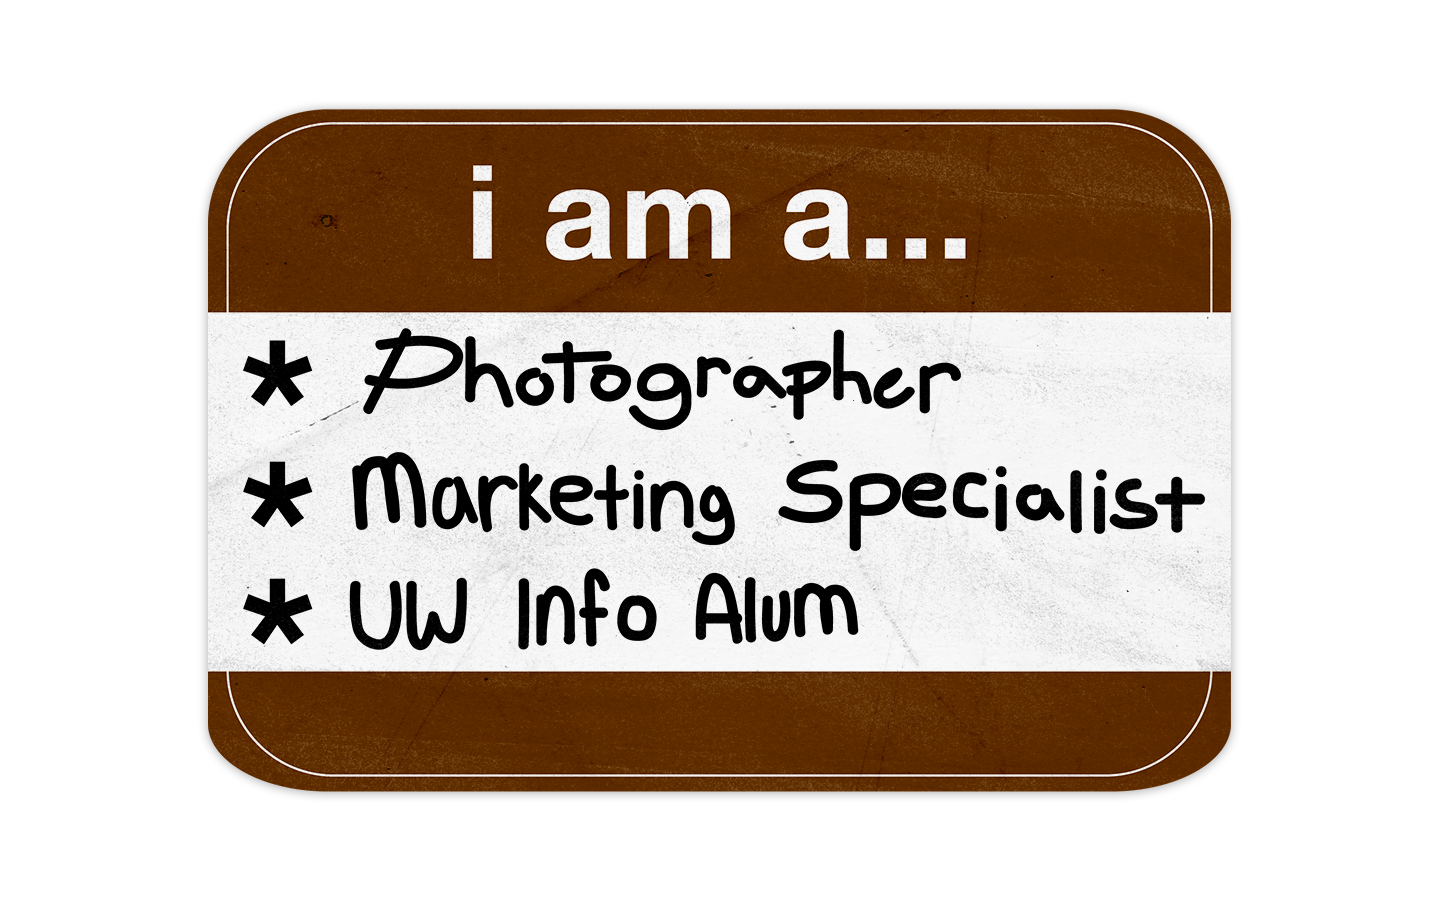
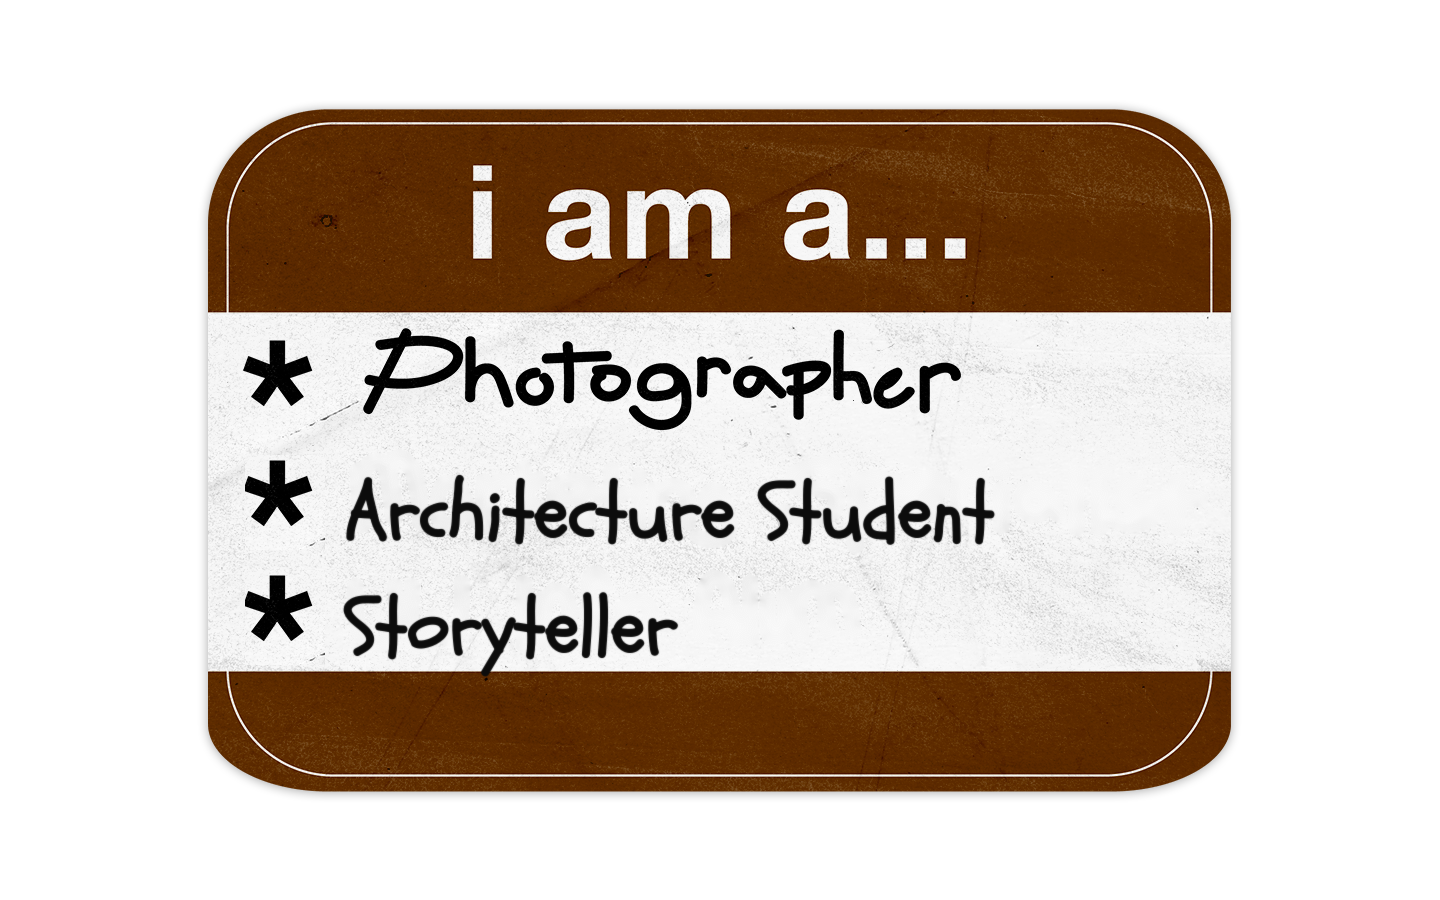
feat: authentic card textures with JUZTIN! and roles, and replace who-i-am/what-i-do with highlight carousel

Changed region(s): [[0.1562, 0.4978, 0.8438, 0.7467]]

diff --git a/src/components/NametagHeroCard.tsx b/src/components/NametagHeroCard.tsx
@@ -1,119 +1,6 @@
 import React, { useRef, useState, useEffect } from 'react';
 import { motion, useScroll, useTransform, useSpring, useMotionValue } from 'motion/react';
 
-// Authentic Graffiti Marker Tag "JUZTIN!"
-const JuztinMarkerTag: React.FC = () => (
-  <svg
-    viewBox="0 0 490 140"
-    className="w-[90%] h-auto max-h-[110px] sm:max-h-[125px] select-none filter drop-shadow-[0_2px_3px_rgba(0,0,0,0.18)]"
-  >
-    <g
-      fill="none"
-      stroke="#0c0c0c"
-      strokeWidth="20"
-      strokeLinecap="round"
-      strokeLinejoin="round"
-    >
-      {/* J */}
-      <path d="M 52 24 L 78 24 M 66 24 L 66 84 C 66 112 36 112 26 94" />
-      {/* U */}
-      <path d="M 96 32 L 96 82 C 96 108 138 108 138 82 L 138 32" />
-      {/* Z - Street Art Graffiti Z */}
-      <path d="M 160 34 L 214 34 L 164 104 L 220 104" />
-      {/* T */}
-      <path d="M 234 34 L 292 34 M 263 34 L 263 104" />
-      {/* I */}
-      <path d="M 310 34 L 310 104" />
-      {/* N */}
-      <path d="M 338 104 L 338 32 L 396 104 L 396 32" />
-      {/* ! */}
-      <path d="M 428 26 L 426 78" strokeWidth="21" />
-      <circle cx="426" cy="102" r="10.5" fill="#0c0c0c" stroke="none" />
-    </g>
-  </svg>
-);
-
-// Card 1: Blue "hello my name is JUZTIN!"
-export const Card1Blue: React.FC = () => (
-  <div className="relative w-full h-full rounded-[24px] sm:rounded-[28px] bg-[#5b9dd9] border-2 sm:border-[3px] border-[#488bc6] shadow-[0_20px_45px_rgba(0,0,0,0.18)] overflow-hidden flex flex-col justify-between select-none">
-    {/* Paper texture overlay */}
-    <div className="absolute inset-0 pointer-events-none bg-[radial-gradient(#0000000a_1px,transparent_1px)] [background-size:12px_12px] opacity-60 z-20" />
-    <div className="absolute top-0 right-0 w-32 h-full bg-gradient-to-l from-black/5 to-transparent pointer-events-none z-20" />
-
-    {/* Top Blue Header Strip */}
-    <div className="relative z-10 w-full bg-[#5b9dd9] px-6 pt-3 pb-2 sm:pt-4 sm:pb-3 flex flex-col items-center justify-center text-white border-b-2 border-[#488bc6]">
-      <span className="text-[32px] sm:text-[42px] font-black leading-none tracking-tight font-sans lowercase drop-shadow-xs">
-        hello
-      </span>
-      <span className="text-[10px] sm:text-[12px] font-bold uppercase tracking-[0.26em] opacity-95 mt-0.5 font-sans">
-        my name is
-      </span>
-    </div>
-
-    {/* Center White Paper with Graffiti Tag "JUZTIN!" */}
-    <div className="relative z-10 flex-1 flex items-center justify-center px-4 bg-gradient-to-b from-[#ffffff] via-[#fafafa] to-[#f3f3f3] shadow-inner">
-      {/* Subtle crease line across paper */}
-      <svg
-        className="absolute inset-0 w-full h-full pointer-events-none opacity-25"
-        preserveAspectRatio="none"
-        viewBox="0 0 400 150"
-      >
-        <path d="M 0 40 Q 200 80 400 30" stroke="#000000" strokeWidth="1" fill="none" />
-      </svg>
-      <JuztinMarkerTag />
-    </div>
-
-    {/* Bottom Blue Strip */}
-    <div className="relative z-10 w-full h-[22px] sm:h-[30px] bg-[#5b9dd9] border-t-2 border-[#488bc6]" />
-  </div>
-);
-
-// Card 2: Brown "i am a... Photographer, Architecture Student, Storyteller"
-export const Card2Brown: React.FC = () => (
-  <div className="relative w-full h-full rounded-[24px] sm:rounded-[28px] bg-[#4d2405] border-2 sm:border-[3px] border-[#3a1a03] shadow-[0_18px_40px_rgba(77,36,5,0.22)] overflow-hidden flex flex-col justify-between select-none">
-    {/* Paper texture overlay */}
-    <div className="absolute inset-0 pointer-events-none bg-[radial-gradient(#0000000a_1px,transparent_1px)] [background-size:12px_12px] opacity-60 z-20" />
-    <div className="absolute top-0 right-0 w-32 h-full bg-gradient-to-l from-black/5 to-transparent pointer-events-none z-20" />
-
-    {/* Top Brown Header Strip */}
-    <div className="relative z-10 w-full bg-[#4d2405] px-6 pt-3.5 pb-2.5 sm:pt-4 sm:pb-3 flex flex-col items-center justify-center text-white border-b-2 border-[#3a1a03]">
-      <span className="text-[30px] sm:text-[40px] font-black leading-none tracking-tight font-sans drop-shadow-xs">
-        i am a...
-      </span>
-    </div>
-
-    {/* Center White Paper with Handwritten Specialties */}
-    <div className="relative z-10 flex-1 flex flex-col justify-center px-6 sm:px-10 py-3 bg-gradient-to-b from-[#fefefc] via-[#fbfaf6] to-[#f4f2ea] shadow-inner font-['Architects_Daughter',cursive,'Caveat',sans-serif]">
-      {/* Subtle crease line */}
-      <svg
-        className="absolute inset-0 w-full h-full pointer-events-none opacity-20"
-        preserveAspectRatio="none"
-        viewBox="0 0 400 150"
-      >
-        <path d="M 0 110 Q 200 60 400 100" stroke="#000000" strokeWidth="1" fill="none" />
-      </svg>
-
-      <ul className="space-y-2 sm:space-y-2.5 text-[#0d0d0d] font-bold text-[18px] xs:text-[20px] sm:text-[24px] md:text-[25px] leading-tight">
-        <li className="flex items-center gap-2.5">
-          <span className="text-[20px] sm:text-[26px] leading-none text-[#0d0d0d]">*</span>
-          <span>Photographer</span>
-        </li>
-        <li className="flex items-center gap-2.5">
-          <span className="text-[20px] sm:text-[26px] leading-none text-[#0d0d0d]">*</span>
-          <span>Architecture Student</span>
-        </li>
-        <li className="flex items-center gap-2.5">
-          <span className="text-[20px] sm:text-[26px] leading-none text-[#0d0d0d]">*</span>
-          <span>Storyteller</span>
-        </li>
-      </ul>
-    </div>
-
-    {/* Bottom Brown Strip */}
-    <div className="relative z-10 w-full h-[22px] sm:h-[30px] bg-[#4d2405] border-t-2 border-[#3a1a03]" />
-  </div>
-);
-
 export const NametagHeroCard: React.FC = () => {
   const containerRef = useRef<HTMLDivElement>(null);
   const [isMobile, setIsMobile] = useState<boolean>(false);
@@ -134,19 +21,19 @@ export const NametagHeroCard: React.FC = () => {
   const { scrollY } = useScroll();
 
   // Desktop slide-out: Left card moves left, right card moves right
-  // Settles smoothly between 0px and 140px of scroll
-  const desktopCard1XRaw = useTransform(scrollY, [0, 140], [0, -215]);
-  const desktopCard2XRaw = useTransform(scrollY, [0, 140], [0, 215]);
-  const desktopCard1RotateRaw = useTransform(scrollY, [0, 140], [-5, -1.5]);
-  const desktopCard2RotateRaw = useTransform(scrollY, [0, 140], [5, 2]);
+  // Settles smoothly between 0px and 160px of scroll
+  const desktopCard1XRaw = useTransform(scrollY, [0, 160], [0, -220]);
+  const desktopCard2XRaw = useTransform(scrollY, [0, 160], [0, 220]);
+  const desktopCard1RotateRaw = useTransform(scrollY, [0, 160], [-5, -1.5]);
+  const desktopCard2RotateRaw = useTransform(scrollY, [0, 160], [5, 2]);
 
   // Mobile slide-out: Cascades vertically without clipping
-  const mobileCard1XRaw = useTransform(scrollY, [0, 140], [0, -20]);
-  const mobileCard1YRaw = useTransform(scrollY, [0, 140], [0, -70]);
-  const mobileCard2XRaw = useTransform(scrollY, [0, 140], [0, 20]);
-  const mobileCard2YRaw = useTransform(scrollY, [0, 140], [0, 70]);
-  const mobileCard1RotateRaw = useTransform(scrollY, [0, 140], [-4, -1]);
-  const mobileCard2RotateRaw = useTransform(scrollY, [0, 140], [4, 1.5]);
+  const mobileCard1XRaw = useTransform(scrollY, [0, 160], [0, -20]);
+  const mobileCard1YRaw = useTransform(scrollY, [0, 160], [0, -70]);
+  const mobileCard2XRaw = useTransform(scrollY, [0, 160], [0, 20]);
+  const mobileCard2YRaw = useTransform(scrollY, [0, 160], [0, 70]);
+  const mobileCard1RotateRaw = useTransform(scrollY, [0, 160], [-4, -1]);
+  const mobileCard2RotateRaw = useTransform(scrollY, [0, 160], [4, 1.5]);
 
   // Mouse tilt physics using springs
   const mouseX = useMotionValue(0);
@@ -176,7 +63,7 @@ export const NametagHeroCard: React.FC = () => {
   // Determine positions (scroll or click toggle)
   const card1X = isMobile
     ? manualExpand ? -20 : mobileCard1XRaw
-    : manualExpand ? -225 : desktopCard1XRaw;
+    : manualExpand ? -220 : desktopCard1XRaw;
 
   const card1Y = isMobile
     ? manualExpand ? -70 : mobileCard1YRaw
@@ -188,7 +75,7 @@ export const NametagHeroCard: React.FC = () => {
 
   const card2X = isMobile
     ? manualExpand ? 20 : mobileCard2XRaw
-    : manualExpand ? 225 : desktopCard2XRaw;
+    : manualExpand ? 220 : desktopCard2XRaw;
 
   const card2Y = isMobile
     ? manualExpand ? 70 : mobileCard2YRaw
@@ -205,7 +92,7 @@ export const NametagHeroCard: React.FC = () => {
       onMouseEnter={() => setIsHovered(true)}
       onMouseLeave={handleMouseLeave}
       onClick={() => setManualExpand(!manualExpand)}
-      className="relative w-full max-w-[960px] min-h-[340px] sm:min-h-[380px] md:min-h-[420px] flex items-center justify-center select-none perspective-[1200px] cursor-pointer"
+      className="relative w-full max-w-[960px] min-h-[340px] sm:min-h-[400px] md:min-h-[440px] flex items-center justify-center select-none perspective-[1200px] cursor-pointer"
       title="Click or scroll down to slide out the cards!"
     >
       {/* Scroll indicator hint */}
@@ -231,9 +118,15 @@ export const NametagHeroCard: React.FC = () => {
         }}
         whileHover={{ scale: 1.02 }}
         transition={{ type: 'spring', stiffness: 260, damping: 25 }}
-        className="absolute w-[290px] xs:w-[330px] sm:w-[390px] md:w-[440px] h-[190px] xs:h-[220px] sm:h-[260px] md:h-[285px] z-10"
+        className="absolute w-[290px] xs:w-[340px] sm:w-[420px] md:w-[460px] aspect-[1.6/1] z-10 filter drop-shadow-[0_18px_36px_rgba(74,36,8,0.22)]"
       >
-        <Card2Brown />
+        <img
+          src="/card-nametag-brown.png"
+          alt="i am a... Photographer, Architecture Student, Storyteller"
+          loading="eager"
+          decoding="async"
+          className="w-full h-full object-contain pointer-events-none select-none transition-transform duration-300"
+        />
       </motion.div>
 
       {/* CARD 1: Blue "hello my name is JUZTIN!" Card (Starts in front, slides left) */}
@@ -247,9 +140,15 @@ export const NametagHeroCard: React.FC = () => {
         }}
         whileHover={{ scale: 1.02 }}
         transition={{ type: 'spring', stiffness: 260, damping: 25 }}
-        className="relative w-[290px] xs:w-[330px] sm:w-[390px] md:w-[440px] h-[190px] xs:h-[220px] sm:h-[260px] md:h-[285px] z-20"
+        className="relative w-[290px] xs:w-[340px] sm:w-[420px] md:w-[460px] aspect-[1.6/1] z-20 filter drop-shadow-[0_20px_42px_rgba(0,0,0,0.22)]"
       >
-        <Card1Blue />
+        <img
+          src="/card-nametag-blue.png"
+          alt="hello my name is JUZTIN!"
+          loading="eager"
+          decoding="async"
+          className="w-full h-full object-contain pointer-events-none select-none transition-transform duration-300"
+        />
       </motion.div>
     </div>
   );

diff --git a/src/components/JustinLeHomeView.tsx b/src/components/JustinLeHomeView.tsx
@@ -1,29 +1,20 @@
 import React from 'react';
-import { motion } from 'motion/react';
 import { ArrowRight, Camera, Film, Mail } from 'lucide-react';
 import { NavView, AlbumCategory } from './EdzSidebar';
 import { NametagHeroCard } from './NametagHeroCard';
+import { EdzHomeView } from './EdzHomeView';
+import { PhotoItem } from '../types';
 
 interface JustinLeHomeViewProps {
   currentView: NavView;
   onNavigate: (view: NavView, album?: AlbumCategory, subAlbum?: string) => void;
+  photos: PhotoItem[];
 }
 
 export const JustinLeHomeView: React.FC<JustinLeHomeViewProps> = ({
   onNavigate,
+  photos,
 }) => {
-  // Skills / Disciplines pill tags matching the photographer & architecture student focus
-  const skills = [
-    { label: 'Combat Sports Photography', album: 'sports', subAlbum: 'muay-thai' },
-    { label: 'Motorsport Photography', album: 'sports', subAlbum: 'formula-1' },
-    { label: 'Architecture & Spatial Storytelling', album: 'stage' },
-    { label: 'Cadet Expeditions', album: 'events' },
-    { label: 'Cinematic 4K Videography', view: 'videography' },
-    { label: 'DaVinci Color Grading', view: 'videography' },
-    { label: 'Visual Storytelling', view: 'instagram' },
-    { label: 'High-Speed Action Capture', album: 'sports' },
-  ];
-
   return (
     <div className="w-full flex flex-col items-center select-none">
       {/* HERO SECTION: Scroll-Driven Two-Card Slide-Out Interaction */}
@@ -31,59 +22,36 @@ export const JustinLeHomeView: React.FC<JustinLeHomeViewProps> = ({
         <NametagHeroCard />
       </section>
 
-      {/* CLEAN MINIMAL DIVIDER LINE (Replacing stars per user request) */}
-      <div className="w-full max-w-[860px] h-px bg-black/[0.08] my-8 sm:my-10" />
+      {/* CLEAN MINIMAL DIVIDER LINE */}
+      <div className="w-full max-w-[960px] h-px bg-black/[0.08] my-8 sm:my-10" />
 
-      {/* "WHO I AM" & "WHAT I DO" SECTION */}
-      <section className="w-full max-w-[860px] mt-2 sm:mt-4 space-y-12 sm:space-y-16">
-        {/* Row 1: Who I Am */}
-        <div className="grid grid-cols-1 md:grid-cols-12 gap-4 md:gap-8 items-start">
-          <div className="md:col-span-3">
-            <h2 className="text-[17px] sm:text-[19px] font-bold text-black font-sans lowercase tracking-tight">
-              who i am
-            </h2>
-          </div>
-          <div className="md:col-span-9">
-            <p className="text-[15px] sm:text-[16px] leading-[1.7] text-[#333333] font-sans">
-              Hi there! I'm <span className="text-black font-bold">Juztin</span>, a photographer, architecture student, and storyteller based in Singapore capturing raw speed, spatial forms, and live human grit. Most weekends, you'll find me ringside covering championship fight nights for the Singapore Muay Thai Association, trackside at motorsport events, or documenting national cadet expeditions and architectural spaces. My work is focused on real, unfiltered energy—freezing split-second action at 1/1000s without getting in the way of it.
-            </p>
-          </div>
+      {/* PHOTO HIGHLIGHT CAROUSEL (Replaces "Who I Am" and "What I Do" per user request) */}
+      <section className="w-full max-w-[960px] my-4 sm:my-6 flex flex-col items-center">
+        <div className="w-full mb-3 flex items-center justify-between px-1">
+          <span className="text-xs uppercase tracking-widest text-[#777777] font-mono font-bold">
+            Featured Highlights
+          </span>
+          <button
+            type="button"
+            onClick={() => onNavigate('photography')}
+            className="text-xs font-mono uppercase tracking-wider text-black hover:underline flex items-center gap-1 cursor-pointer"
+          >
+            <span>View All</span>
+            <ArrowRight className="w-3.5 h-3.5" />
+          </button>
         </div>
 
-        {/* Row 2: What I Do */}
-        <div className="grid grid-cols-1 md:grid-cols-12 gap-4 md:gap-8 items-start">
-          <div className="md:col-span-3">
-            <h2 className="text-[17px] sm:text-[19px] font-bold text-black font-sans lowercase tracking-tight">
-              what i do
-            </h2>
-          </div>
-          <div className="md:col-span-9">
-            <div className="flex flex-wrap gap-2.5 sm:gap-3">
-              {skills.map((skill, idx) => (
-                <motion.button
-                  key={idx}
-                  type="button"
-                  onClick={() => {
-                    if (skill.view) {
-                      onNavigate(skill.view as NavView);
-                    } else if (skill.album) {
-                      onNavigate('album', skill.album as AlbumCategory, skill.subAlbum);
-                    }
-                  }}
-                  whileHover={{ scale: 1.03, y: -1 }}
-                  whileTap={{ scale: 0.98 }}
-                  className="inline-flex items-center px-4 py-1.5 rounded-full border border-black/15 bg-white text-[#222222] hover:text-black hover:border-black hover:bg-black/5 text-[13px] sm:text-[14px] font-medium transition-all shadow-2xs cursor-pointer font-sans"
-                >
-                  <span>{skill.label}</span>
-                </motion.button>
-              ))}
-            </div>
-          </div>
+        <div className="w-full rounded-2xl overflow-hidden border border-black/[0.08] bg-[#fafafa] shadow-xs">
+          <EdzHomeView
+            photos={photos}
+            className="w-full flex items-center justify-center relative select-none"
+            style={{ height: 'min(72vh, 600px)', minHeight: '360px' }}
+          />
         </div>
       </section>
 
       {/* LOCATION & BIO SUMMARY */}
-      <section className="w-full max-w-[860px] text-center mt-16 sm:mt-20">
+      <section className="w-full max-w-[860px] text-center mt-14 sm:mt-18">
         <p className="text-[14.5px] sm:text-[15.5px] leading-relaxed text-[#555555] font-sans">
           Currently based in Singapore. Available for commercial assignments, ringside fight night coverage,
           motorsport events, architectural documentation, and creative storytelling productions. Learn more about my journey in{' '}

diff --git a/src/components/EdzHomeView.tsx b/src/components/EdzHomeView.tsx
@@ -5,9 +5,11 @@ import { PhotoItem } from '../types';
 
 interface EdzHomeViewProps {
   photos: PhotoItem[];
+  className?: string;
+  style?: React.CSSProperties;
 }
 
-export const EdzHomeView: React.FC<EdzHomeViewProps> = ({ photos }) => {
+export const EdzHomeView: React.FC<EdzHomeViewProps> = ({ photos, className, style }) => {
   // Use curated featured highlights spanning Muay Thai, F1, Wushu stage, and Temple events
   const featuredPhotos = photos.filter((p) => p.featured);
   const displayPhotos = featuredPhotos.length > 0 ? featuredPhotos : photos.slice(0, 6);
@@ -87,8 +89,8 @@ export const EdzHomeView: React.FC<EdzHomeViewProps> = ({ photos }) => {
 
   return (
     <div
-      className="w-full flex items-center justify-center relative select-none"
-      style={{ height: 'calc(100vh - 100px)' }}
+      className={className || "w-full flex items-center justify-center relative select-none"}
+      style={style !== undefined ? style : { height: 'calc(100vh - 100px)' }}
       onMouseEnter={() => setIsHovered(true)}
       onMouseLeave={() => setIsHovered(false)}
       onTouchStart={handleTouchStart}

diff --git a/src/App.tsx b/src/App.tsx
@@ -282,11 +282,12 @@ export default function App() {
               transition={{ duration: 0.22, ease: [0.22, 1, 0.36, 1] }}
               className="w-full"
             >
-              {/* 1. Home View: JustinLe Card Reveal, Bio, Logos & Action Cards */}
+              {/* 1. Home View: JustinLe Card Reveal, Highlight Carousel, Logos & Action Cards */}
               {currentView === 'home' && (
                 <JustinLeHomeView
                   currentView={currentView}
                   onNavigate={handleNavigate}
+                  photos={photos}
                 />
               )}
 
